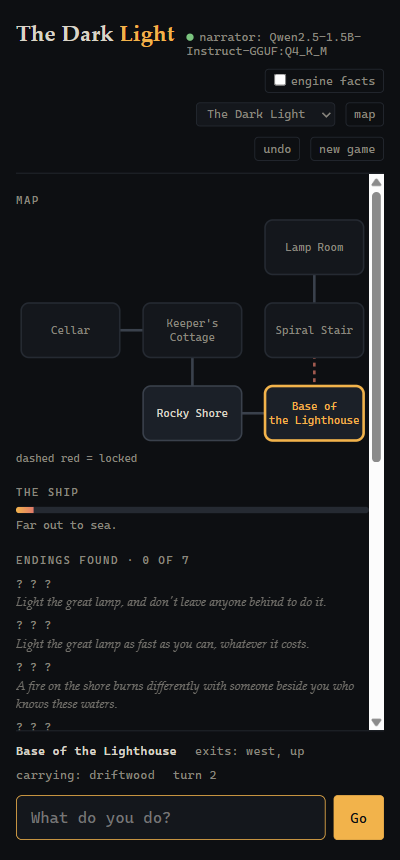
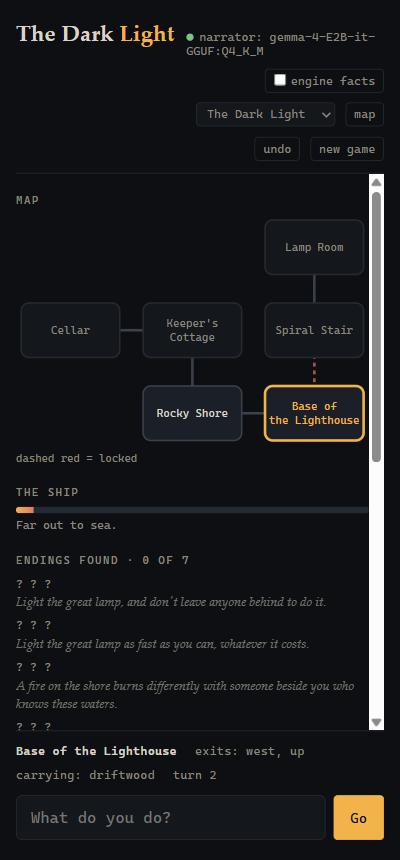
Screenshots narrated by Gemma 4 E2B; standalone model flags
- start/playing/map retaken on the platform dev stack with Gemma 4 E2B.
- Standalone compose: --no-mmproj, --reasoning off and --cache-ram 256, as on the box, so
  MODEL=<gemma> works there too (no vision projector, no reasoning text, bounded cache).
- CLAUDE.md: evaluate the parser against the box's Gemma model.

Changed region(s): [[0.48, 0.0302, 0.93, 0.0605], [0.81, 0.9372, 0.84, 0.9674]]

diff --git a/CLAUDE.md b/CLAUDE.md
@@ -53,5 +53,6 @@ Push a `vX.Y.Z` tag. CI tests, then publishes `ghcr.io/jessewolcott/airplanemode
 
 ## Open follow-ups
 
-- Run `evals/parse_eval.py --llm` against 0.5B and 1.5B to get real model numbers.
+- Run `evals/parse_eval.py --llm` against the standalone 0.5B and the box's Gemma 4 E2B (platform
+  decision 0018) to get real model numbers. On Gemma, model verbs override a right keyword fallback.
 - Grow the parse cases from real `/api/stats?samples=1` logs on the box.
